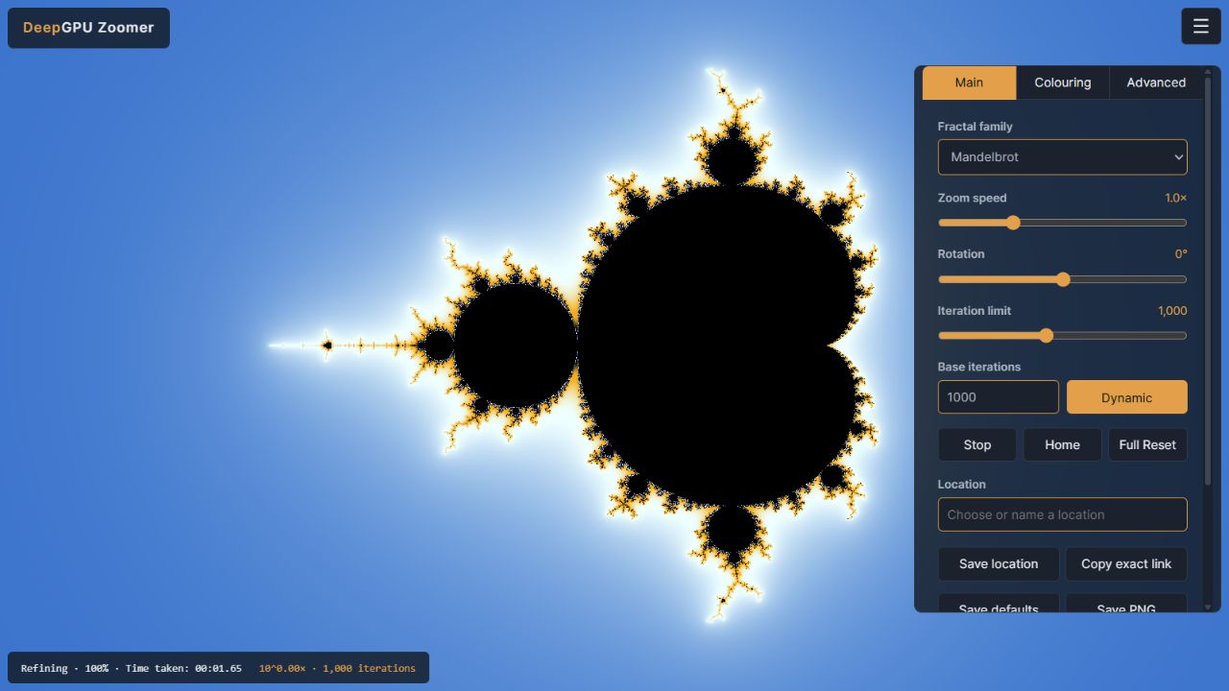
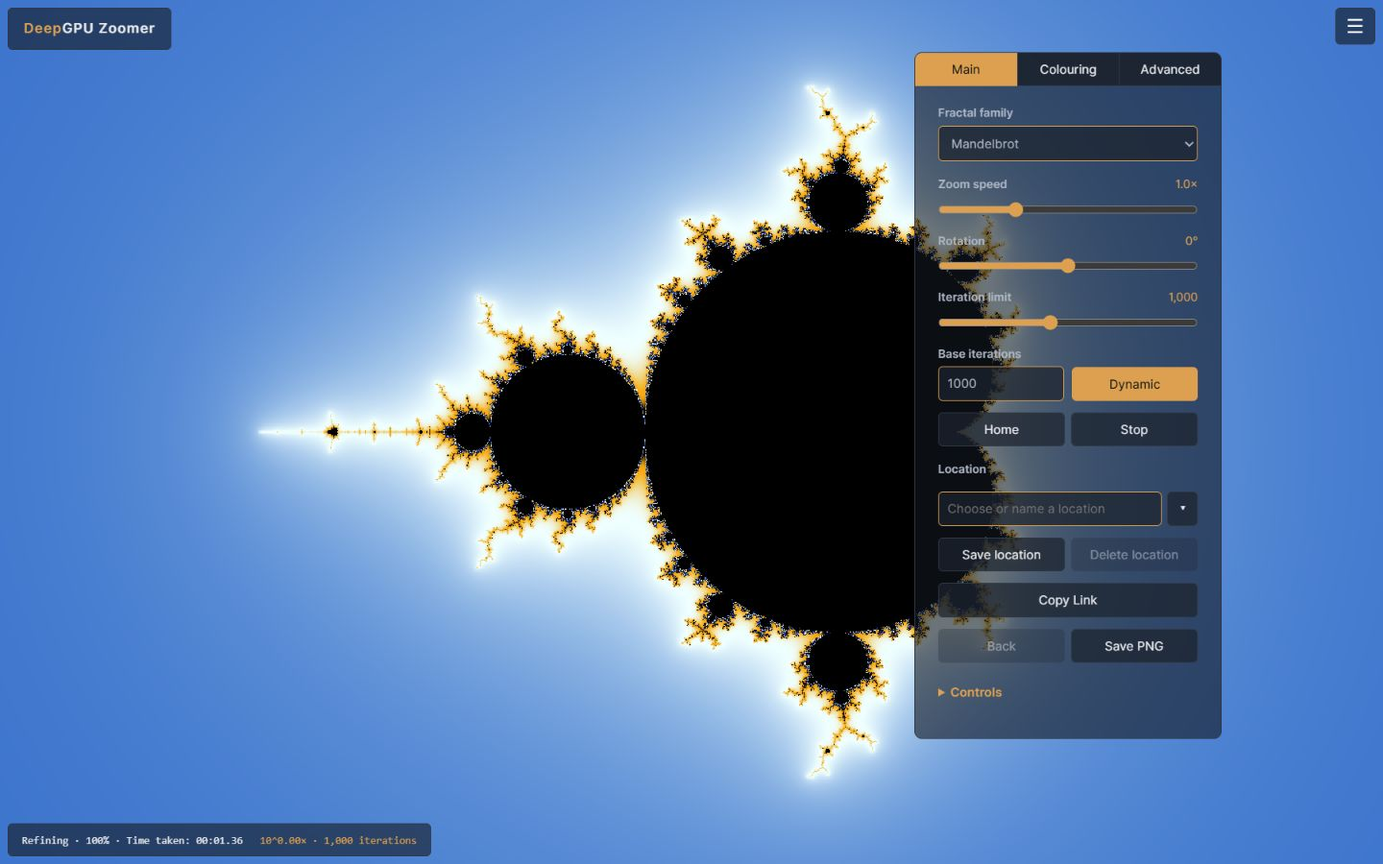
Refresh current-build documentation and configure GitHub Pages

diff --git a/README.md b/README.md
@@ -6,7 +6,7 @@
 
 [![WebGPU](https://img.shields.io/badge/Rendering-WebGPU-E5A344?style=flat-square)](https://www.w3.org/TR/webgpu/) [![TypeScript](https://img.shields.io/badge/TypeScript-3178C6?style=flat-square)](https://www.typescriptlang.org/) [![WGSL](https://img.shields.io/badge/Shaders-WGSL-8758C7?style=flat-square)](https://www.w3.org/TR/WGSL/) [![Local computation](https://img.shields.io/badge/Compute-In_your_browser-249B83?style=flat-square)](#introduction) [![GPL](https://img.shields.io/badge/License-GPL--3.0--or--later-B8476B?style=flat-square)](LICENSE)
 
-[Get started](#get-started) · [Controls](#explore) · [Advanced](#advanced) · [References](#references) · [Acknowledgements](#acknowledgements)
+[Open the app](https://byronbuzz.github.io/DeepGPU-Zoomer/) · [Get started](#get-started) · [Controls](#explore) · [Advanced](#advanced) · [References](#references) · [Acknowledgements](#acknowledgements)
 
 </div>
 
@@ -24,7 +24,7 @@ WebGPU handles parallel pixel calculation and presentation. At deeper scales, an
 | --- | --- | --- |
 | Mandelbrot and quadratic Julia sets | Editable gradients with 2–8 colour stops | Named locations stored in your browser |
 | Pointer-directed zoom, pan and rotation | 25 colour formulas and 20 optional effects | Exact links with coordinates and appearance |
-| Live Julia preview and built-in locations | Lighting, hue rotation and capped-point patterns | Tiled PNG export at custom resolutions |
+| Live Julia preview and 12 editable default locations | Lighting, hue rotation and capped-point patterns | Tiled PNG export at custom resolutions |
 | Progressive detail and optional 2× oversampling | Movable controls and a custom panel accent | Your own saved startup preferences |
 
 The application runs locally on your computer. It has no account system, rendering server or cloud-compute dependency.
@@ -33,7 +33,9 @@ The application runs locally on your computer. It has no account system, renderi
 
 ## 🚀 Get started
 
-You need Node.js and npm to run the source, plus a browser and GPU that support WebGPU. Use a secure page origin: the local development address below works; a hosted installation should use HTTPS. Browser, operating-system and driver support all matter. See [WebGPU availability](https://developer.mozilla.org/en-US/docs/Web/API/WebGPU_API).
+**[Open DeepGPU Zoomer](https://byronbuzz.github.io/DeepGPU-Zoomer/)** in a browser with WebGPU support. No installation is needed to use the hosted app. Browser, GPU, operating-system and driver support all matter. See [WebGPU availability](https://developer.mozilla.org/en-US/docs/Web/API/WebGPU_API).
+
+To run the source locally, you need Node.js and npm. Use a secure page origin: the local development address below works; hosted installations should use HTTPS.
 
 ```sh
 git clone https://github.com/byronbuzz/DeepGPU-Zoomer.git
@@ -53,11 +55,13 @@ npm run preview
 
 The build writes to `dist/`; the preview command prints its local address. A deployed build needs only static hosting with HTTPS. Visitors need no Node.js installation or native helper. There is no alternative rendering backend when WebGPU is unavailable.
 
+GitHub Pages is published by [the deployment workflow](.github/workflows/pages.yml), which installs the locked dependencies, checks TypeScript, and builds with `--base=/DeepGPU-Zoomer/` so scripts, styles and the reference worker load beneath the repository URL. It runs after a push to `main` or a manual **Deploy GitHub Pages** workflow run. Normal local builds keep the root path.
+
 <a id="explore"></a>
 
 ## 🧭 Explore
 
-Start with **Seahorse Valley** in the Location chooser, or hold the left mouse button over an interesting part of the whole set. Release to let the view finish refining.
+Start with **Julia Jewels 10^0x** in the Location chooser, or hold the left mouse button over an interesting part of the whole Mandelbrot set. Release to let the view finish refining.
 
 | Action | Control |
 | --- | --- |
@@ -78,9 +82,10 @@ Keyboard navigation applies when you are interacting with the canvas rather than
 - **Iteration limit** sets the current calculation limit, from **1 to 10,000,000**. Higher limits can reveal more detail around difficult boundaries, at a greater computation cost.
 - **Base iterations** sets the starting limit for Dynamic adjustment. **Dynamic** raises or lowers the effective limit during zooming according to depth. Turn it off to keep a fixed limit.
 - **Home** returns to the whole view of the current family. **Full Reset** in Advanced restores factory preferences and Mandelbrot Home, while retaining saved locations.
-- **Location** combines built-in places and your saved views. Enter a name and choose **Save location**. Saving the selected location updates it; a collision with another saved name asks before replacement. **Delete location** removes a selected saved entry after confirmation, keeping the current view. **Back** restores the exact view before your last location jump, including Home or a family change; its history lasts for this session.
-- **Copy Link** includes the camera, Julia constant, camera rotation, iteration limit, appearance and colour rotation checkbox states and speed. Saved locations preserve the same settings. Paste the link into the browser address bar and press Enter to open that exact location immediately, including in an already open explorer.
-- **Save defaults** at the bottom of Advanced stores your preferred appearance, controls, iteration settings and panel settings. Startup still uses the Home camera, never a remembered deep location.
+- **Location** searches your saved views, including 12 defaults added once from the supplied collection. All entries are editable and deletable; deleted defaults stay deleted after reload. Enter a name and choose **Save location**. Saving the selected location updates it; a collision with another saved name asks before replacement. **Delete location** asks “Delete saved location?” and keeps the current view. **Back** restores the exact view before your last location jump, including Home or a family change; its history lasts for this session.
+- **Copy Link** includes the camera, Julia constant, camera rotation, iteration limit, appearance, colour rotation checkbox states, reverse direction and speed. Saved locations preserve the same settings. Paste the link into the browser address bar and press Enter to open that exact location immediately, including in an already open explorer.
+- **Backup locations** and **Restore locations** in Advanced export and import JSON. Restore preserves existing entries, skips duplicates, and renames conflicting incoming names to keep both versions. Keep a backup before moving to another hostname, port or browser profile; browser storage is separate for each origin.
+- **Save defaults**, beneath the location backup/restore buttons in Advanced, stores your preferred appearance, controls, iteration settings and panel settings. Startup uses the Home camera unless an exact link is opened.
 
 ### Colour and detail
 
@@ -99,7 +104,9 @@ The **Advanced** tab keeps the main detail controls together:
 
 **When movement stops, refinement automatically uses Detailed throughput.** Your selected throughput remains the preference for navigation. Factory settings are **1×** zoom, Mandelbrot Home, **1,000 iterations** and **Dynamic enabled**. Saved defaults and remembered local preferences may override those settings; startup still uses the Home camera.
 
-Move the controls by dragging their background or tab headers and resize their width from the side edges. Each tab fits its content, scrolling when it reaches the bottom margin of the viewport. Main’s **Controls** accordion contains the keyboard and mouse guide. Advanced also contains panel opacity, accent colour and status visibility. The PNG export panel and Julia preview can be moved independently.
+Move the controls by dragging their background or tab headers and resize their width from the side edges. Each tab fits its content, scrolling when it reaches the bottom margin of the viewport. Main’s **Controls** accordion contains the keyboard and mouse guide. Advanced also contains panel opacity, accent colour and **menu hides title and status line**. That option hides both with the menu when checked; both remain visible when unchecked.
+
+The factory accent is **#e5a14e** and panel opacity is **60%**. Control backgrounds use 1.2 times the panel opacity, capped at 100%; active tabs, active buttons, pressed states and hover backgrounds are fully opaque. The menu icon stays white. PNG export and Julia preview move independently: opening one while the other is visible places it underneath when space permits, otherwise it is centred.
 
 ### Save a PNG
 
@@ -109,9 +116,9 @@ Export captures the view when you press Save PNG and renders independently of su
 
 For the complete control reference, defaults and troubleshooting, see the **[User guide](docs/user-guide.md)**.
 
-![Seahorse Valley rendered in DeepGPU Zoomer with a blue, white and gold palette](docs/images/seahorse-valley.jpg)
+![Julia Jewels rendered in DeepGPU Zoomer](docs/images/julia-jewels.jpg)
 
-*Seahorse Valley, one of the built-in locations. Both images above are captured from the application.*
+*Julia Jewels, one of the editable default locations. Both images above are captured from the current application.*
 
 <a id="advanced"></a>
 
@@ -132,6 +139,8 @@ The interface uses TypeScript, HTML and CSS without a UI framework. Vite bundles
 | `src/render/regions.ts`, `src/render/*grid.ts` | Pending work, coverage and coordinate-preserving sample reuse |
 | `src/gpu/` | Device acquisition, capacity checks, shader compilation and timing |
 | `src/palette-editor.ts`, `src/panels.ts`, `src/tuning.ts` | Appearance editing, movable panels and navigation policies |
+| `src/colour-picker.ts`, `src/colour-rotation.ts` | Shared colour pickers, image-sampling loupe and timed palette/light rotation |
+| `src/locations.ts`, `src/default-locations.json`, `src/defaults.ts` | Location backup/restore, the default collection and saved startup preferences |
 | `src/export/` | Export snapshots, tile planning, readback and PNG encoding |
 
 The current dependency versions are decimal.js **10.6.0**, TypeScript **5.9.3**, Vite **5.4.21** and WebGPU type definitions **0.1.71**. The [lockfile](package-lock.json) records the complete dependency resolution.

diff --git a/docs/user-guide.md b/docs/user-guide.md
@@ -4,7 +4,7 @@
 
 ## First exploration
 
-Run the application using the [setup instructions](../README.md#get-started). Choose **Seahorse Valley** from Location, or hold the left mouse button over a part of the Mandelbrot set you would like to explore. Zoom follows the pointer. Release the button to let the image finish refining.
+Open [the hosted application](https://byronbuzz.github.io/DeepGPU-Zoomer/) or run it using the [setup instructions](../README.md#get-started). Choose **Julia Jewels 10^0x** from Location, or hold the left mouse button over a part of the Mandelbrot set you would like to explore. Zoom follows the pointer. Release the button to let the image finish refining.
 
 The footer shows refinement progress, elapsed calculation time, magnification and the effective iteration limit. Magnification is expressed as a power of ten, so it remains readable even at extremely small scales. A completed image means the requested calculation has finished; it does not prove every capped point is mathematically inside the set.
 
@@ -58,7 +58,7 @@ A higher limit gives difficult orbits more time to escape. It also increases wor
 
 ### Locations and exact links
 
-Location is both a searchable chooser and a name field. Click to browse, or type to filter the built-in and saved locations. Use the dropdown arrow to browse. Arrow keys select a result; Enter opens it. Escape or clicking outside closes the list. Saving works with the list open.
+Location is both a searchable chooser and a name field. Click to browse, or type to filter saved locations, including the 12 editable defaults. Use the dropdown arrow to browse. Arrow keys select a result; Enter opens it. Escape or clicking outside closes the list. Saving works with the list open.
 
 To save your view, enter a name and select **Save location**. A saved view contains the family, exact decimal centre and span, Julia constant, camera rotation, iteration limit, appearance, colour rotation checkbox states, Reverse direction and Rotation speed. Saving the selected saved name updates that entry. Reusing another saved name asks before replacement. Editing the name clears the selection. Select a saved location and choose **Delete location** to remove it after confirmation; the current camera view stays in place. Default locations are added to the saved collection once and can also be deleted; deleted entries stay deleted after reloading.
 
@@ -67,6 +67,8 @@ To save your view, enter a name and select **Save location**. A saved view conta
 **Copy Link** places those same view fields in a URL fragment. It does not change the current address bar. Paste the link into the browser address bar and press Enter to open the shared view immediately. This works on a fresh page or in the running explorer, without a reload or a second confirmation. After opening, the fragment is removed from the address bar so the same link can be pasted again; use Copy Link to share the current view. Zoom speed, Dynamic preference, navigation tuning and panel layout are local preferences and are not carried in that link.
 
 Saved locations belong to this browser profile and origin. A different hostname or port has separate browser storage. Copy links for views you want to keep outside that storage.
+
+**Advanced → Backup locations** downloads a JSON collection containing the saved names and complete views. **Restore locations** validates a selected backup before merging it. Exact duplicates are skipped; a different view with an existing name receives a numbered suffix so both remain available. Restoring never replaces an existing entry. Keep the backup before changing hostname, port or browser profile, and restore it in the destination.
 
 ### Save defaults
 
@@ -85,7 +87,7 @@ Expand **Edit Palette** to select one of 18 presets or edit a custom palette.
 | Add a stop | Click an empty position on the palette strip |
 | Move a stop | Drag it, or focus it and use Left/Right |
 | Edit a colour | Click a stop, or use Enter/Space; choose saturation and brightness in the 2D swatch, adjust hue, or enter hex |
-| Sample the image | Use the eyedropper in any colour picker, then click the image; Escape cancels |
+| Sample the image | Use the eyedropper in any colour picker, move over the image to inspect the magnifying loupe, then click to select its centre pixel; Escape cancels |
 | Delete a stop | Use Delete in the picker, or the Delete key on a focused stop |
 | Preserve a stop during Randomise | Select it and enable Lock stop |
 | Reverse the palette | Reverse stops |
@@ -120,7 +122,7 @@ Once movement stops, the main view automatically uses **Detailed** scheduling un
 
 ### Pointer controls
 
-Pointer priority offers **Off, 2×, 4×, 8× and 16×**. It weights work near the pointer relative to distributed and older pending work. Off means equal service weighting; it does not stop rendering. The factory setting is 2×.
+Pointer priority offers **Off, 2×, 4×, 8× and 16×**. It weights work near the pointer relative to distributed and older pending work. Off means equal service weighting; it does not stop rendering. The factory setting is **4×**.
 
 **2× Pointer refinement** increases local detail around the pointer during interaction. It is independent of priority and is off by default.
 
@@ -138,7 +140,9 @@ Pointer priority offers **Off, 2×, 4×, 8× and 16×**. It weights work near th
 
 Drag panel backgrounds or the tab headers to reposition them; dragging uses the normal mouse pointer. Clicking a tab still selects it. The main controls resize in width from the left and right edges. Each tab’s height follows its content and stops eight pixels above the viewport bottom, scrolling inside the panel when needed. The Controls accordion at the bottom of Main contains the interaction guide. The title badge, Julia preview and PNG export panel have their own positions. Use the input, checkbox or button itself to activate a control; ordinary labels do not activate it. Accordions toggle only from their summary text. Resize edges show a double-arrow cursor without a highlighted side strip.
 
-Panel accent colour also styles the borders of dropdowns and entry fields; focusing these thickens the existing border without adding a second outline. Regular buttons use the accent on hover. Opacity adjusts panel backgrounds and the menu button. Control backgrounds use 1.2 times that opacity, capped at 100%. **menu hides title and status line** hides both the title and footer with the menu when checked; both stay visible when unchecked.
+Panel accent colour also styles the borders of dropdowns and entry fields; focusing these thickens the existing border without adding a second outline. The title and footer use the same border style as the menu button. Regular buttons use the accent on hover. Hover, pressed and active-button backgrounds and the selected tab are fully opaque. The menu icon remains white, including on hover. Opacity adjusts panel backgrounds and the menu button. Control backgrounds use 1.2 times that opacity, capped at 100%. **menu hides title and status line** hides both the title and footer with the menu when checked; both stay visible when unchecked.
+
+Opening PNG export or Julia preview while the other is open places the new panel beneath it if it fits, otherwise it is centred in the viewport.
 
 Use the mouse wheel over a slider to adjust it. Ctrl-click resets supported application sliders to their factory values. Standard keyboard slider controls remain available.
 
@@ -161,6 +165,10 @@ Use **Cancel export** or close the export panel to cancel. Large images are gene
 | Iteration base / Dynamic | 1,000 / On |
 | Zoom speed | 1× |
 | Panel opacity | 60% |
+| Panel accent / Menu hides title and status line | #e5a14e / Off |
+| Light rotation / Palette rotation / Reverse direction | Off / Off / Off |
+| Rotation speed / Palette cycle at that speed | 10 seconds / 40 seconds |
+| Default locations | 12 editable, deletable saved views |
 | Throughput / stationary refinement | Smooth / Detailed |
 | Pointer priority / 2× Pointer refinement | 4× / Off |
 | 2× oversampling / Distance lighting | Off / Off |
@@ -177,13 +185,11 @@ Use **Cancel export** or close the export panel to cancel. Large images are gene
 | Navigation or refinement is slow | Iteration count, resolution, scene complexity, lighting and oversampling all affect work. Start with Smooth throughput, a lower iteration limit and oversampling off. |
 | Image stays stopped | Navigate to resume after pressing Stop. |
 | Colour changes start more calculation | The chosen formula or lighting may require channels absent from the retained field. |
-| PNG display preset is unavailable | Use Custom dimensions, or allow display detection where the browser supports it. |
+| PNG display estimate is unsuitable | Use Custom dimensions for an exact size; display estimation does not require a permission grant. |
 | GPU or export capacity error | Reduce output dimensions, oversampling or the iteration budget, as appropriate to the reported error. |
 | A link does not open | Use the complete URL produced by Copy Link, including its fragment. Invalid links leave the current view unchanged. |
 | Saved locations appear missing | Confirm the same browser profile, hostname and port. Local storage is separate for each origin. |
 
 The application computes and exports locally. Its code does not upload locations, send analytics or use a rendering service. Loading the application and its worker assets still uses the serving origin.
-
-When opening PNG export or Julia preview while the other is open, the new panel goes beneath it if it fits, otherwise it is centred in the viewport.
 
 Before moving to a new candidate, port or version, use **Advanced → Backup locations** and keep the downloaded JSON file. Use **Restore locations** in the new version and verify the names before retiring the old version. Restoring merges locations without overwriting name conflicts. The 12 default locations come from the owner's 3 October 2026 backup and are added once, preserving existing saved entries.

diff --git a/docs/architecture.md b/docs/architecture.md
@@ -18,6 +18,7 @@ This reference describes the active application: a decimal camera and browser in
 | Work scheduling | Pending regions, coverage, adaptive sizing and publication stripes | [regions.ts](../src/render/regions.ts), [motion-sizing.ts](../src/render/motion-sizing.ts), [ordinary-stripes.ts](../src/render/ordinary-stripes.ts) |
 | Device | Feature/limit discovery, allocation checks, compilation and timing | [device.ts](../src/gpu/device.ts), [timing.ts](../src/gpu/timing.ts) |
 | Appearance | Colour schema, palettes, picker and panel preferences | [colorSettings.ts](../src/logic/colorSettings.ts), [palette-editor.ts](../src/palette-editor.ts), [colour-picker.ts](../src/colour-picker.ts), [panels.ts](../src/panels.ts) |
+| Persistence | Saved-view validation, defaults, location backups and initial locations | [state.ts](../src/state.ts), [defaults.ts](../src/defaults.ts), [locations.ts](../src/locations.ts), [default-locations.json](../src/default-locations.json) |
 | Export | Snapshot, tiling, device readback and streaming PNG encoding | [export/](../src/export/) |
 
 The frontend is TypeScript with native HTML/CSS controls. Vite 5.4.21 bundles modules, worker entry points and imported WGSL strings. decimal.js 10.6.0 is the direct runtime package dependency. Native browser APIs provide workers, GPU access, local storage, clipboard access, image download and compression.
@@ -94,7 +95,7 @@ The user selects one of three navigation throughput policies:
 | Balanced | 2× | 128 ms |
 | Detailed | 4× | 32 ms |
 
-These are internal workload settings, not measured latency promises. The main application uses the selection while interacting, and Detailed while stationary. Pointer priority selects relative service weights of 1, 2, 4, 8 or 16 against the other service classes; Off corresponds to equal weighting.
+These are internal workload settings, not measured latency promises. The main application uses the selection while interacting, and Detailed while stationary. Pointer priority selects relative service weights of 1, 2, 4, 8 or 16 against the other service classes; Off corresponds to equal weighting. The factory setting is 4× pointer priority, with Smooth navigation and pointer refinement disabled.
 
 Measured GPU cost and completion feedback adapt eligible work sizes. Established inward work can publish aligned stripes. Ordinary Mandelbrot kernels use a **16×4** workgroup specialization where applicable. GPU timing is used when supported.
 
@@ -114,6 +115,16 @@ The optional **2× oversampling** stage calculates twice the width and height wh
 
 Pointer refinement is independent: it concentrates additional detail near the pointer during navigation. Full-view stationary oversampling is not implied by enabling it.
 
+## Appearance and interface
+
+Iteration colouring is the factory mode. Distance colouring adds a derivative-based distance field and screen-space surface relief, with ambient, diffuse and specular lighting. Highlight colour, light direction and elevation are appearance settings.
+
+Palette and light rotation are optional and independently enabled. [colour-rotation.ts](../src/colour-rotation.ts) maps the shared speed control to a light period of 1–60 seconds, defaulting to 10 seconds. A full palette cycle takes four light periods: 40 seconds at the factory speed. Reverse applies to both. These changes use retained appearance data when compatible; changing the required numerical channels still follows the field-admission rules above. Manual offset or light-angle editing suspends that channel's automatic rotation for the gesture.
+
+The shared colour picker provides saturation/brightness, hue and validated hex input for palette stops, highlights and panel accent. Image picking reads the renderer's last presented screen texture, including reprojection and partial refinement, rather than recalculating the fractal. A mapped GPU readback supplies the selected pixel and a 15×15 neighbourhood for the magnified loupe. Edge pixels are repeated at image boundaries; the centre marker identifies the selected pixel. Picking intercepts navigation gestures and can be cancelled with Escape.
+
+[panels.ts](../src/panels.ts) owns draggable placement, the controls panel's edge resizing, Julia preview resizing, tabs and menu visibility. Positions remain within the viewport. When export and Julia preview are both open, the newly opened panel goes below the other if it fits, otherwise to the centre in front. Panel opacity defaults to 60%, with control backgrounds at 1.2 times panel opacity, capped at full opacity. The status/title can optionally hide with the menu. These interface settings do not change the numerical field or exported appearance.
+
 ## PNG export
 
 An export snapshots camera, appearance and numerical settings. It has an independent renderer and cancellation signal, so live navigation does not replace the chosen image.
@@ -122,15 +133,23 @@ The planner preserves centre, rotation and vertical span. It splits the output i
 
 Output limits are **80,000,000 pixels** and **32,768 pixels per dimension**. A **768 MiB export allocation estimate** and actual device limits further restrict admissible work. The estimate is not the total browser process footprint: existing viewport/reference resources and browser internals are separate.
 
-The encoder uses browser compression streams and enforces an encoded-output budget during construction. Display-based resolution presets use supported display detection with permission; custom dimensions do not depend on it.
+The encoder uses browser compression streams and enforces an encoded-output budget during construction. Display-based resolution estimates use screen CSS dimensions multiplied by the device pixel ratio without Window Management permission; browser zoom can affect the estimate. Custom dimensions do not depend on it.
 
 ## Persistence and privacy
 
-The saved-view schema includes family, decimal centre and span, Julia constant, iteration limit, rotation and appearance. Exact links encode that schema in the URL fragment. Local tuning and panel preferences are separate.
+The saved-view schema includes family, decimal centre and span, Julia constant, iteration limit, camera rotation, appearance and colour-motion settings (speed, palette/light enablement and reverse). Exact links encode the validated schema in the URL fragment. A valid fragment opens automatically on startup or a hash change, then is removed from the address bar so opening the same link again works. An invalid link leaves the current view intact. Local tuning and panel preferences are separate.
 
-Saved defaults capture startup appearance, base iterations, Dynamic preference, speed, tuning and panel settings. They exclude camera geometry, family, Julia constant and saved locations. Startup begins at Mandelbrot Home; a hash payload is staged until explicitly opened.
+Saved defaults capture startup appearance, base iterations, Dynamic preference, navigation speed, colour-motion settings, tuning and panel settings, including selected tab, expanded sections and menu visibility. They exclude camera geometry, family, Julia constant and saved locations. Startup begins at Mandelbrot Home unless an exact link supplies a view. Without explicit saved defaults, the previous view can supply remembered appearance, while its camera is not restored. Reset restores factory settings and Home without deleting saved locations.
+
+The initial collection is the owner's 12 locations in [default-locations.json](../src/default-locations.json). Each browser origin merges that collection into saved locations once, using a separate seeding marker. Existing locations are preserved, identical name/view entries are skipped, and conflicting names receive a numbered suffix. After successful seeding, deleting an initial location does not recreate it on reload. Browser-saved locations are distinct from this checked-in initial collection.
+
+Location backups use a versioned `deepgpu-zoomer-locations` JSON envelope; restoration also accepts a legacy location array. Every incoming view is validated before merging. Restoration preserves destination entries and is safe to repeat. Unreadable stored location data disables saving and deletion rather than replacing it. Locations and settings remain origin-local; moving to another port or hosted site requires a backup and restore to transfer browser-saved entries.
 
 Application state lives in browser local storage. Rendering and PNG encoding use local CPU/GPU resources. There is no application upload, analytics or remote rendering client; application and worker files are loaded from the serving origin.
+
+## Static deployment
+
+[The GitHub Pages workflow](../.github/workflows/pages.yml) installs the locked npm dependencies on Node.js 24, runs the TypeScript check and Vite production build, and publishes only `dist/` through the Pages artifact and deployment actions. The hosted build uses `/DeepGPU-Zoomer/` as its public base path; local builds use the root path. Deployment runs on pushes to `main` and supports manual dispatch. No application backend is deployed.
 
 ## Platform references
 
